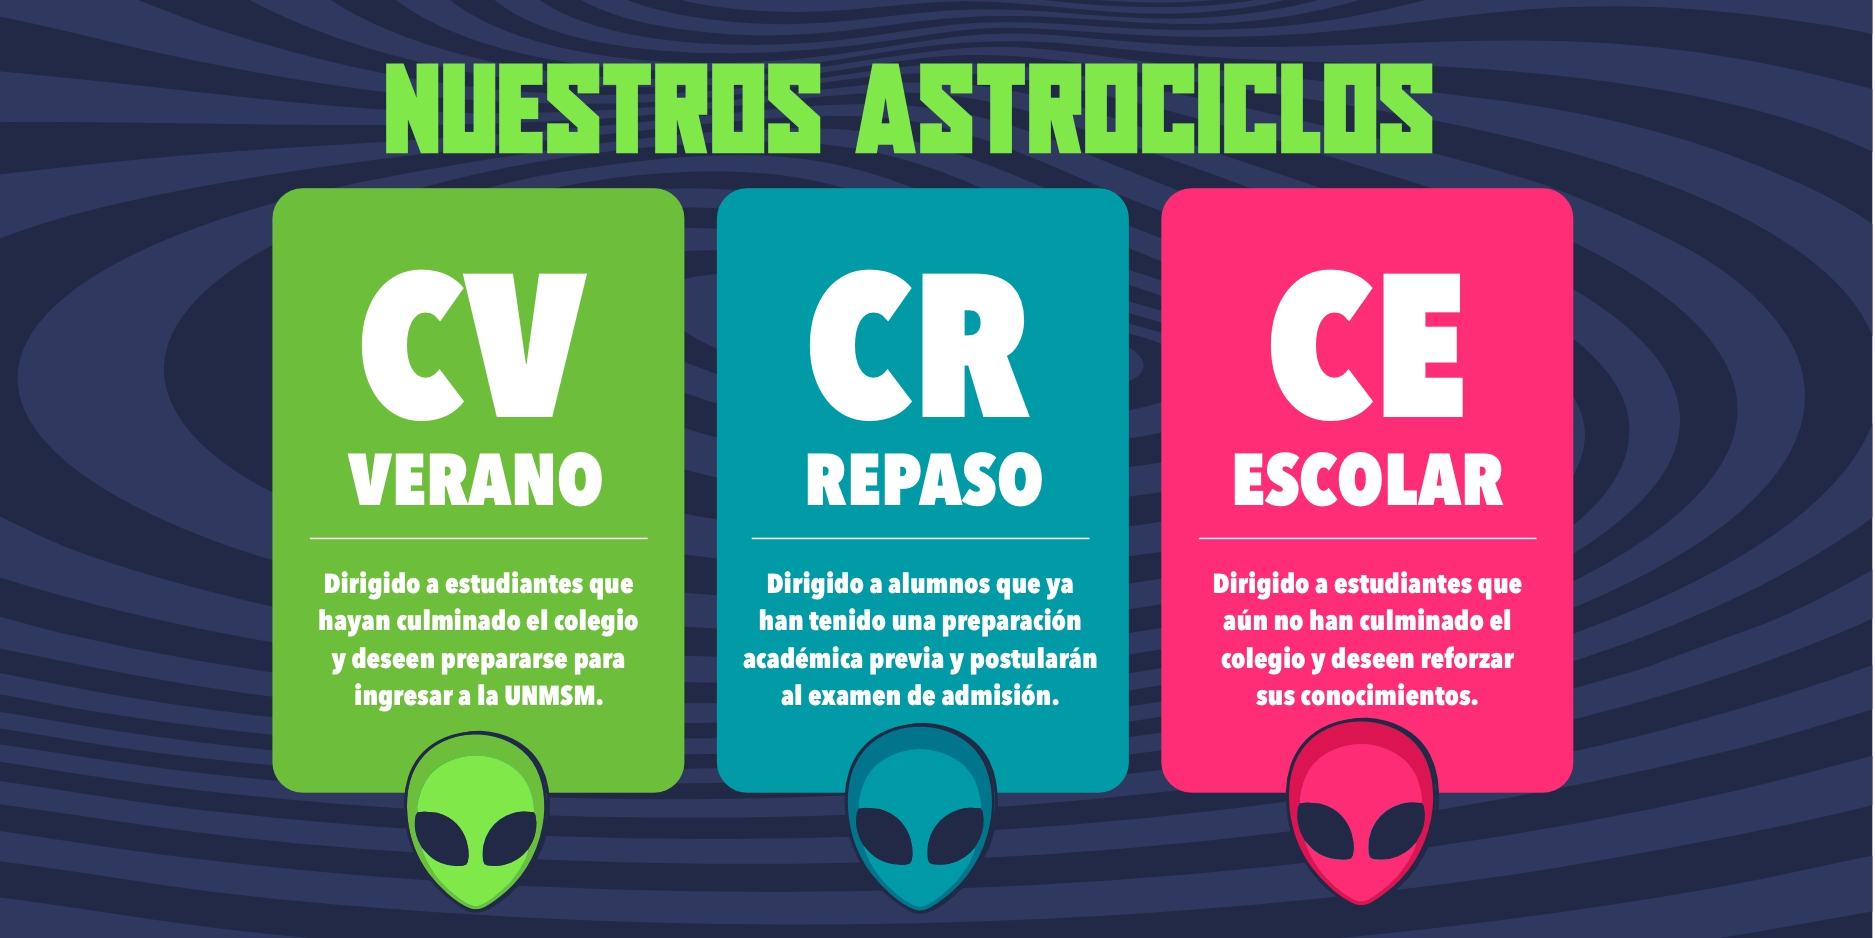
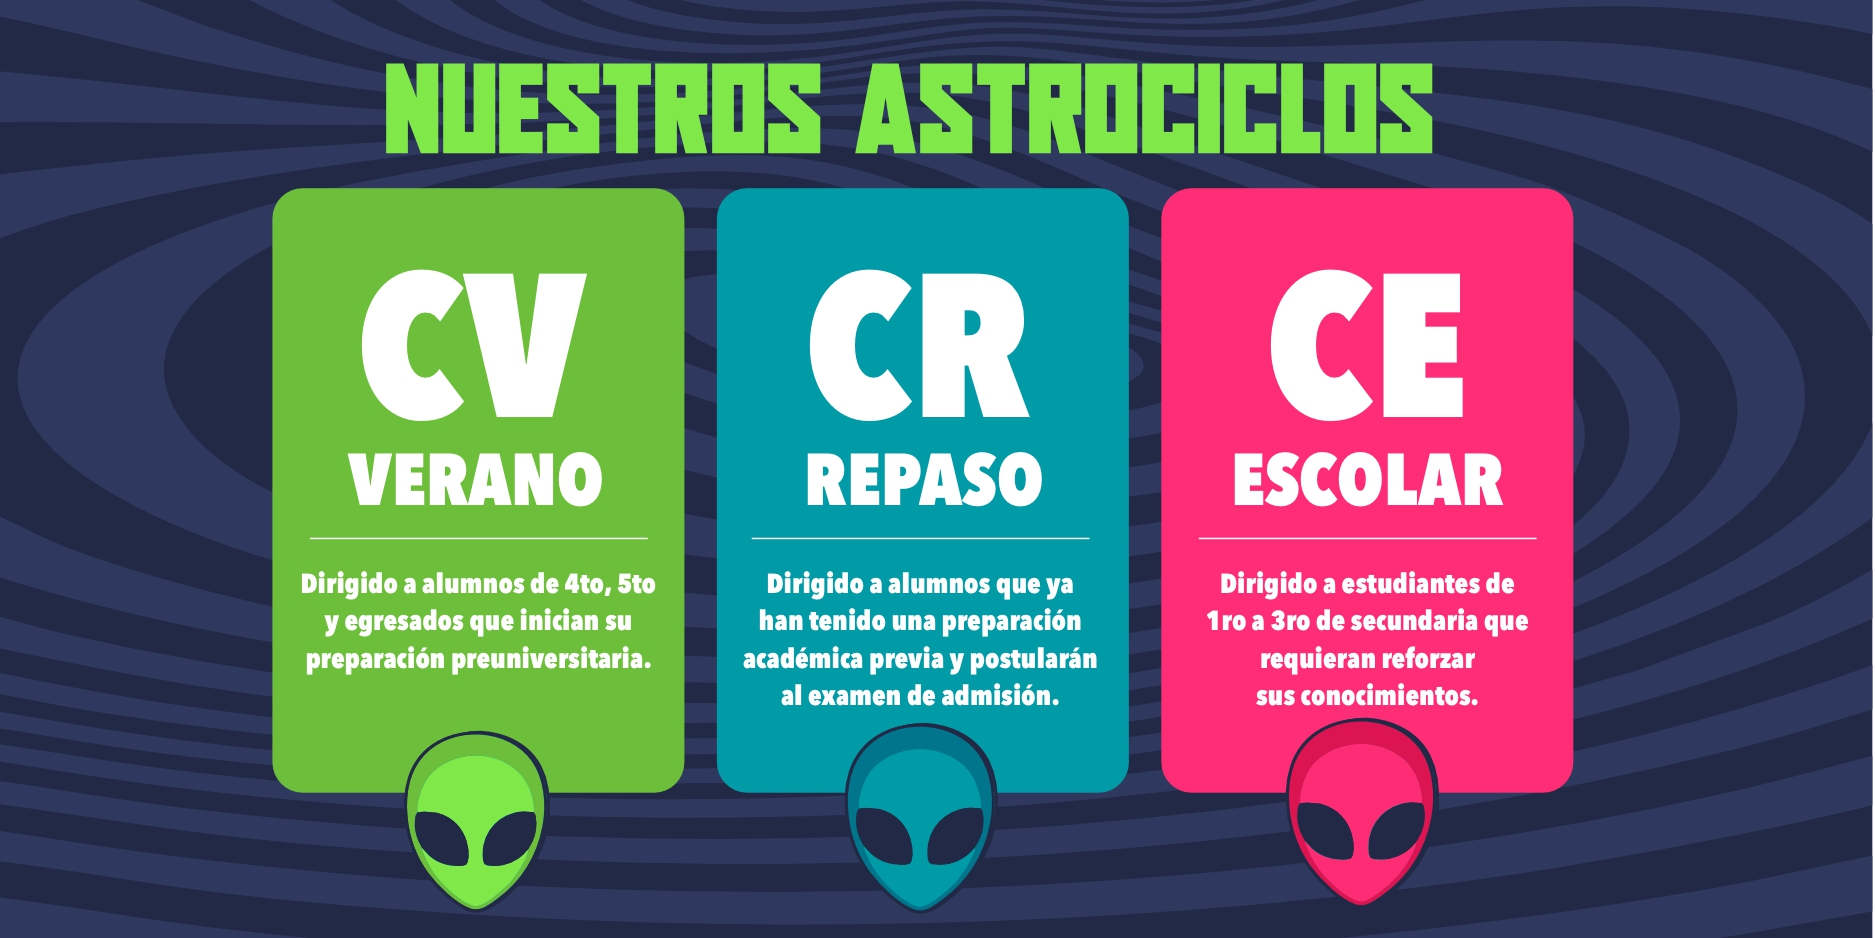
nueva actualización

Changed region(s): [[0.1547, 0.5874, 0.3712, 0.7729], [0.6187, 0.5874, 0.8352, 0.742]]

diff --git a/conocenos/index.html b/conocenos/index.html
@@ -38,10 +38,10 @@
                       Servicios
                     </a>
                     <ul class="dropdown-menu">
-                      <li><a class="dropdown-item" href="#dsa">Aula virtual</a></li>
-                      <li><a class="dropdown-item" href="../servicios/biblioteca/index.html">Biblioteca</a></li>
-                      <li><a class="dropdown-item" href="../servicios/psicopedagogia/index.html">Psicopedagogía</a></li>
                       <li><a class="dropdown-item" href="../servicios/pizarra-interactiva/index.html">Pizarra interactiva</a></li>
+                      <li><a class="dropdown-item" href="../servicios/tutoría/index.html">Tutoría personalizada</a></li>
+                      <li><a class="dropdown-item" href="../servicios/psicopedagogia/index.html">Psicopedagogía</a></li>
+                      <li><a class="dropdown-item" href="#dsa">Aula virtual</a></li>
                     </ul>
                   </li>
                   <li class="nav-item">
@@ -65,7 +65,32 @@
                       <h2 class="conocenos-h2 my-0 py-0">Excelencia en</h2>
                       <h2 class="conocenos-h2 my-0 py-0 txt-second">Preparación Preuniversitaria</h2>
                       <p class="pe-4 fs-6">
-                          Lorem ipsum dolor sit, amet consectetur adipisicing elit. Laborum maxime obcaecati libero sunt, quis tenetur dolores atque consectetur, illo tempore est sint illum ipsam itaque!
+                        <section id="about">
+                          <h2>
+                            ¿QUIÉNES SOMOS?
+                            <div class="triangle"></div>
+                          </h2>
+                            <p>
+                              Somos un grupo académico enfocado en el rubro de la educación. Buscamos implementar innovaciones que te ayudarán en tu ingreso a la universidad y puedas llegar a ser un profesional de prestigio.
+                              Hemos puesto en marcha distintas modalidades de preparación que se adaptan a las necesidades de nuestros alumnos junto a clases extraordinarias con profesores totalmente calificados.
+                              La preparación que brindamos es integral, nos enfocamos en San Marcos por ser una de las Universidades con alto nivel y exigencia académica, esta preparación permite el ingreso a otras universidades nacionales como también particulares. 
+                              También contamos con clases de nivelación y adelanto académico para escolares de 1ero a 5to de secundaria.                  
+                            </p>
+                          <h2>
+                            MISIÓN
+                            <div class="triangle"></div>
+                          </h2>
+                            <p>
+                              Ofrecer una preparación integral para los exámenes de admisión a distintas universidades, a través de un enfoque educativo que promueva su desarrollo académico, personal y emocional, utilizando métodos innovadores, materiales actualizados y un equipo de docentes apasionados y comprometidos.                 
+                            </p>
+                          <h2>
+                            VISIÓN
+                            <div class="triangle"></div>
+                          </h2>
+                            <p>
+                              Convertirnos en una de las academias preuniversitarias más destacadas del país, reconocida por nuestra excelencia en la formación de estudiantes, facilitando su ingreso a las mejores universidades del país y contribuyendo a la formación de ciudadanos críticos y comprometidos con su comunidad.                  
+                            </p>
+                        </section> 
                       </p>
                     </div>
                   </div>
@@ -85,7 +110,7 @@
                       <h5>VERANO</h5>
                     </div>
                     <div class="astrociclo-body text-center text-white">
-                      Lorem ipsum dolor sit amet consectetur adipisicing elit. Eos dolore perspiciatis tenetur nisi accusamus? Perferendis vitae eligendi quae quia tempora numquam reprehenderit ab dolorum deserunt.
+                      Dirigido a alumnos de 4to, 5to y egresados que inician su preparación preuniversitaria.
                     </div>
                   </div>
                 </div>
@@ -96,7 +121,7 @@
                       <h5>REPASO</h5>
                     </div>
                     <div class="astrociclo-body text-center text-white">
-                      Lorem ipsum dolor sit amet consectetur adipisicing elit. Eos dolore perspiciatis tenetur nisi accusamus? Perferendis vitae eligendi quae quia tempora numquam reprehenderit ab dolorum deserunt.
+                      Dirigido a alumnos que ya <br> han tenido una preparación <br> académica previa y postularán <br> al examen de admisión.
                     </div>
                   </div>
                 </div>
@@ -104,10 +129,10 @@
                   <div class="rounded p-2 p-md-4 text-center text-white bg-pink">
                     <div class="astrociclo-head fw-bold">
                       <h4>CE</h4>
-                      <h5>ESCOLARES</h5>
+                      <h5>ESCOLAR</h5>
                     </div>
                     <div class="astrociclo-body text-center text-white">
-                      Lorem ipsum dolor sit amet consectetur adipisicing elit. Eos dolore perspiciatis tenetur nisi accusamus? Perferendis vitae eligendi quae quia tempora numquam reprehenderit ab dolorum deserunt.
+                      Dirigido a estudiantes de <br> 1ro a 3ro de secundaria que <br> requieran reforzar <br> sus conocimientos.
                     </div>
                   </div>
                 </div>
@@ -138,24 +163,12 @@
                     <div class="row text-center py-3 text-white justify-content-center gap-0">
                       <div class="col-md-6 mx-0 p-0">
                         <div class="bg-main rounded p-2 px-3" style="font-size: 55px;">
-                          TURNO MAÑANA
+                          TURNO <br> TARDE
                         </div>
                       </div>
                       <div class="col-md-6 mx-0 p-0 d-flex align-items-center">
                         <div class="p-2 bg-second rounded w-100" style="font-size: 40px;">
-                          (08:00 - 13:00)
-                        </div>
-                      </div>
-                    </div>
-                    <div class="row text-center py-3 text-white justify-content-center gap-0">
-                      <div class="col-md-6 mx-0 p-0">
-                        <div class="bg-main rounded p-2 px-3" style="font-size: 55px;">
-                          TURNO MAÑANA
-                        </div>
-                      </div>
-                      <div class="col-md-6 mx-0 p-0 d-flex align-items-center">
-                        <div class="p-2 bg-second rounded w-100" style="font-size: 40px;">
-                          (08:00 - 13:00)
+                          (15:00 - 19:00)
                         </div>
                       </div>
                     </div>
@@ -224,7 +237,7 @@
               <p class="text-white">
                 Si deseas conocer información de nuestros ciclos o servicios comunícate a nuestro número.
               </p>
-              <p class="text-white fw-bold">Teléfono: <span class="fw-normal fs-5">908 935 924</span></p>                            
+              <p class="text-white fw-bold">Teléfono: <span class="fw-normal fs-5">908 935 924 - 919 499 187</span></p>                            
             
           </div>
         </div>

diff --git a/index.html b/index.html
@@ -62,10 +62,10 @@
                       Servicios
                     </a>
                     <ul class="dropdown-menu">
-                      <li><a class="dropdown-item" href="#dsa">Aula virtual</a></li>
-                      <li><a class="dropdown-item" href="./servicios/biblioteca/index.html">Biblioteca</a></li>
-                      <li><a class="dropdown-item" href="./servicios/psicopedagogia/index.html">Psicopedagogía</a></li>
                       <li><a class="dropdown-item" href="./servicios/pizarra-interactiva/index.html">Pizarra interactiva</a></li>
+                      <li><a class="dropdown-item" href="./servicios/tutoría/index.html">Tutoría personalizada</a></li>
+                      <li><a class="dropdown-item" href="./servicios/psicopedagogia/index.html">Psicopedagogía</a></li>
+                      <li><a class="dropdown-item" href="#dsa">Aula virtual</a></li>
                     </ul>
                   </li>
                   <li class="nav-item">
@@ -149,13 +149,6 @@
                 <p>
                   Ofrecemos un ambiente educativo de calidad, respaldado por docentes altamente capacitados, comprometidos con guiar a los estudiantes hacia el éxito. Además, nuestra metodología se centra no solo en la excelencia académica, sino también en fomentar valores como la responsabilidad, la perseverancia y el esfuerzo continuo, asegurando que cada alumno esté preparado para enfrentar un futuro brillante y lleno de oportunidades. ¡Únete a nuestra comunidad y transforma tu presente en el camino hacia tus metas!
                 </p>
-                <p>
-                  Te Brindaremos:
-                </p>
-                <ul style="list-style: none;">
-                  <li><b>Ciclo Verano: </b>Preparación integral para estudiantes de 4to y 5to de secundaria, enfocándonos en las materias clave para el ingreso a la universidad.</li>
-                  <li><b>Ciclo Escolar: </b>Reforzamiento Académico para estudiantes de 1ro a 3ro de secundaria, con el objetivo de fortalecer sus conocimientos y mejorar su rendimiento escolar del próximo año.</li>
-                </ul>
               </div>
               <div class="col-sm-12 col-lg-6 d-flex justify-content-center align-items-start p-4">
                 <img src="./img/edificio.jpg" alt="Academia Vita" class="img-fluid">
@@ -218,7 +211,7 @@
                 <p class="text-white">
                   Si deseas conocer información de nuestros ciclos o servicios comunícate a nuestro número.
                 </p>
-                <p class="text-white fw-bold">Teléfono: <span class="fw-normal fs-5">908 935 924</span></p>                            
+                <p class="text-white fw-bold">Teléfono: <span class="fw-normal fs-5">908 935 924 - 919 499 187</span></p>                            
               
             </div>
           </div>

diff --git a/servicios/tutoría personalizada/index.html b/servicios/tutoría personalizada/index.html
@@ -13,7 +13,7 @@
     <link rel="stylesheet" href="../../styles/section.css">
     <link rel="stylesheet" href="../../styles/responsive.css">
     <link rel="shortcut icon" href="../../logo.ico" type="image/x-icon">
-    <title>Academia Vita | Biblioteca</title>
+    <title>Academia Vita | Tutoría personalizada</title>
 </head>
 <body>
     <header>
@@ -39,7 +39,7 @@
                     </a>
                     <ul class="dropdown-menu">
                       <li><a class="dropdown-item" href="#dsa">Aula virtual</a></li>
-                      <li><a class="dropdown-item link-active" href="#" aria-current="page">Biblioteca</a></li>
+                      <li><a class="dropdown-item link-active" href="#" aria-current="page">Tutoría personalizada</a></li>
                       <li><a class="dropdown-item" href="../psicopedagogia/index.html">Psicopedagogía</a></li>
                       <li><a class="dropdown-item" href="../pizarra-interactiva/index.html">Pizarra interactiva</a></li>
                     </ul>
@@ -60,7 +60,7 @@
           <div class="container py-5">
             <div class="row">
               <div class="col-md-6 col-lg-8">
-                <h2 class="txt-second text-uppercase mb-2">Biblioteca</h2>
+                <h2 class="txt-second text-uppercase mb-2">Tutoría</h2>
                 <p class="py-1">
                   Este espacio va dirigido a nuestros estudiantes ofreciendo
                   recursos de información de la más alta calidad para la 
@@ -73,7 +73,7 @@
                   acompañar a nuestros alumnos en su camino hacia la excelencia.                </p>
               </div>
               <div class="col-md-6 col-lg-4">
-                <img src="../../img/services/biblioteca.png" alt="Biblioteca" class="w-100 rounded-circle">
+                <img src="../../img/services/tutoría personalizada.png" alt="Tutoría personalizada" class="w-100 rounded-circle">
               </div>
             </div>
           </div>

diff --git a/contactanos/index.html b/contactanos/index.html
@@ -38,10 +38,10 @@
                       Servicios
                     </a>
                     <ul class="dropdown-menu">
-                      <li><a class="dropdown-item" href="#dsa">Aula virtual</a></li>
-                      <li><a class="dropdown-item" href="../servicios/biblioteca/index.html">Biblioteca</a></li>
-                      <li><a class="dropdown-item" href="../servicios/psicopedagogia/index.html">Psicopedagogía</a></li>
                       <li><a class="dropdown-item" href="../servicios/pizarra-interactiva/index.html">Pizarra interactiva</a></li>
+                      <li><a class="dropdown-item" href="../servicios/tutoría/index.html">Tutoría personalizada</a></li>
+                      <li><a class="dropdown-item" href="../servicios/psicopedagogia/index.html">Psicopedagogía</a></li>
+                      <li><a class="dropdown-item" href="#dsa">Aula virtual</a></li>
                     </ul>
                   </li>
                   <li class="nav-item">
@@ -66,7 +66,7 @@
                       <div class="mb-3">
                         <i class="fa-brands fa-whatsapp text-white bg-green p-3 fs-1 rounded-circle"></i>
                         <span class="txt-main fw-bold fs-1 ms-2">
-                          908 935 924
+                          908 935 924 - 919 499 187
                         </span>
                       </div>
                       <div class="mb-3">
@@ -143,7 +143,7 @@
               <p class="text-white">
                 Si deseas conocer información de nuestros ciclos o servicios comunícate a nuestro número.
               </p>
-              <p class="text-white fw-bold">Teléfono: <span class="fw-normal fs-5">908 935 924</span></p>                            
+              <p class="text-white fw-bold">Teléfono: <span class="fw-normal fs-5">908 935 924 - 919 499 187</span></p>                            
             
           </div>
         </div>

diff --git a/ciclos/index.html b/ciclos/index.html
@@ -38,10 +38,10 @@
                       Servicios
                     </a>
                     <ul class="dropdown-menu">
-                      <li><a class="dropdown-item" href="#dsa">Aula virtual</a></li>
-                      <li><a class="dropdown-item" href="../servicios/biblioteca/index.html">Biblioteca</a></li>
-                      <li><a class="dropdown-item" href="../servicios/psicopedagogia/index.html">Psicopedagogía</a></li>
                       <li><a class="dropdown-item" href="../servicios/pizarra-interactiva/index.html">Pizarra interactiva</a></li>
+                      <li><a class="dropdown-item" href="../servicios/tutoría/index.html">Tutoría personalizada</a></li>
+                      <li><a class="dropdown-item" href="../servicios/psicopedagogia/index.html">Psicopedagogía</a></li>
+                      <li><a class="dropdown-item" href="#dsa">Aula virtual</a></li>
                     </ul>
                   </li>
                   <li class="nav-item">
@@ -196,7 +196,7 @@
               <p class="text-white">
                 Si deseas conocer información de nuestros ciclos o servicios comunícate a nuestro número.
               </p>
-              <p class="text-white fw-bold">Teléfono: <span class="fw-normal fs-5">908 935 924</span></p>                            
+              <p class="text-white fw-bold">Teléfono: <span class="fw-normal fs-5">908 935 924 - 919 499 187</span></p>                            
             
           </div>
         </div>

diff --git a/servicios/pizarra-interactiva/index.html b/servicios/pizarra-interactiva/index.html
@@ -38,10 +38,10 @@
                       Servicios
                     </a>
                     <ul class="dropdown-menu">
-                      <li><a class="dropdown-item" href="#dsa">Aula virtual</a></li>
-                      <li><a class="dropdown-item" href="../../servicios/biblioteca/index.html">Biblioteca</a></li>
-                      <li><a class="dropdown-item" href="../../servicios/psicopedagogia/index.html">Psicopedagogía</a></li>
                       <li><a class="dropdown-item link-active" aria-current="page" href="#">Pizarra interactiva</a></li>
+                      <li><a class="dropdown-item" href="../../servicios/tutoría/index.html">Tutoría</a></li>
+                      <li><a class="dropdown-item" href="../../servicios/psicopedagogia/index.html">Psicopedagogía</a></li>
+                      <li><a class="dropdown-item" href="#dsa">Aula virtual</a></li>
                     </ul>
                   </li>
                   <li class="nav-item">

diff --git a/js/data.js b/js/data.js
@@ -9,20 +9,21 @@ const carousel = [
 
 const servicios = [
     {
-        title: 'aula_virtual',
-        link: '#servicsios'
+        title: 'pizarra_interactiva',
+        link: './servicios/pizarra-interactiva/index.html'
     },
+    
     {
-        title: 'biblioteca',
-        link: './servicios/biblioteca/index.html'
+        title: 'tutoría personalizada',
+        link: './servicios/tutoría/index.html'
     },
     {
         title: 'psicopedagogia',
         link: './servicios/psicopedagogia/index.html'
     },
     {
-        title: 'pizarra_interactiva',
-        link: './servicios/pizarra-interactiva/index.html'
+        title: 'aula_virtual',
+        link: '#servicsios'
     },
 ]
 

diff --git a/js/index.js b/js/index.js
@@ -48,7 +48,7 @@ function fillServicios(servicios) {
         $("#servicios-container .row").append(`
             <div class="col-sm-12 col-md-6 p-4 col-lg-3 d-flex flex-column gap-4 justify-content-center align-items-center">
                 <a href=${servicio.link} class="text-decoration-none">
-                    <img class="rounded-circle w-100" src="./img/services/${servicio.title}.png" alt="biblioteca">
+                    <img class="rounded-circle w-100" src="./img/services/${servicio.title}.png" alt="tutoría personalizada">
                     <h5 class="txt-main text-center fw-bold">${servicio.title.toUpperCase().replace(/_/g, ' ')}</h5>
                 </a>
             </div>     

diff --git a/servicios/psicopedagogia/index.html b/servicios/psicopedagogia/index.html
@@ -39,7 +39,7 @@
                     </a>
                     <ul class="dropdown-menu">
                       <li><a class="dropdown-item" href="#dsa">Aula virtual</a></li>
-                      <li><a class="dropdown-item" href="../../servicios/biblioteca/index.html">Biblioteca</a></li>
+                      <li><a class="dropdown-item" href="../../servicios/tutoría/index.html">Tutoría</a></li>
                       <li><a class="dropdown-item link-active" href="#" aria-current="page">Psicopedagogía</a></li>
                       <li><a class="dropdown-item" href="../../servicios/pizarra-interactiva/index.html">Pizarra interactiva</a></li>
                     </ul>
